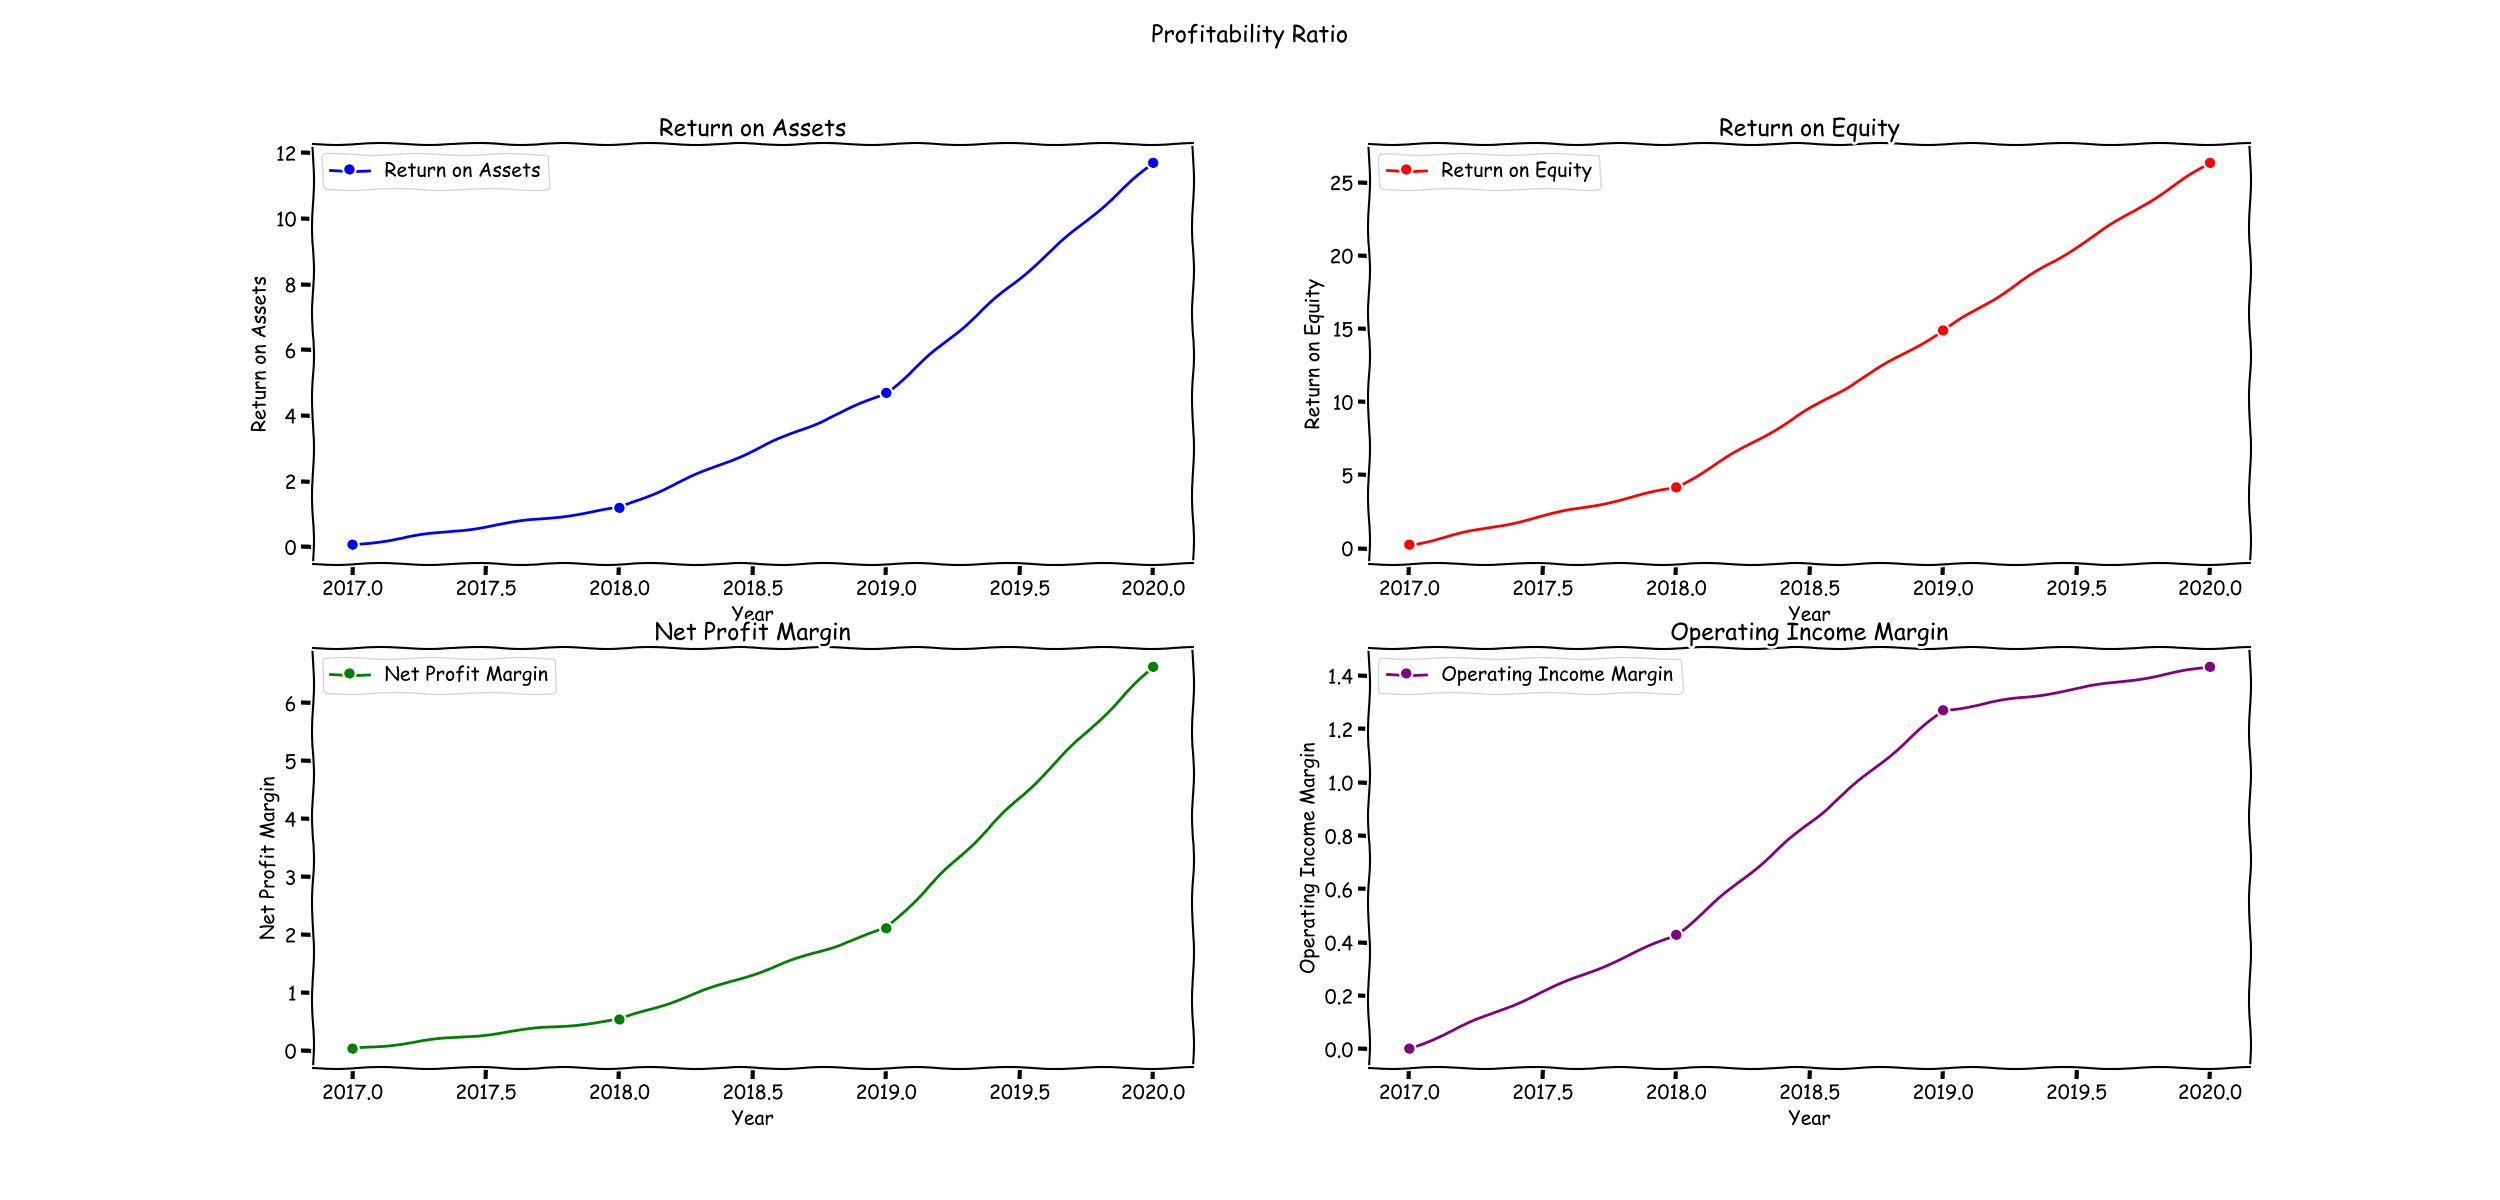
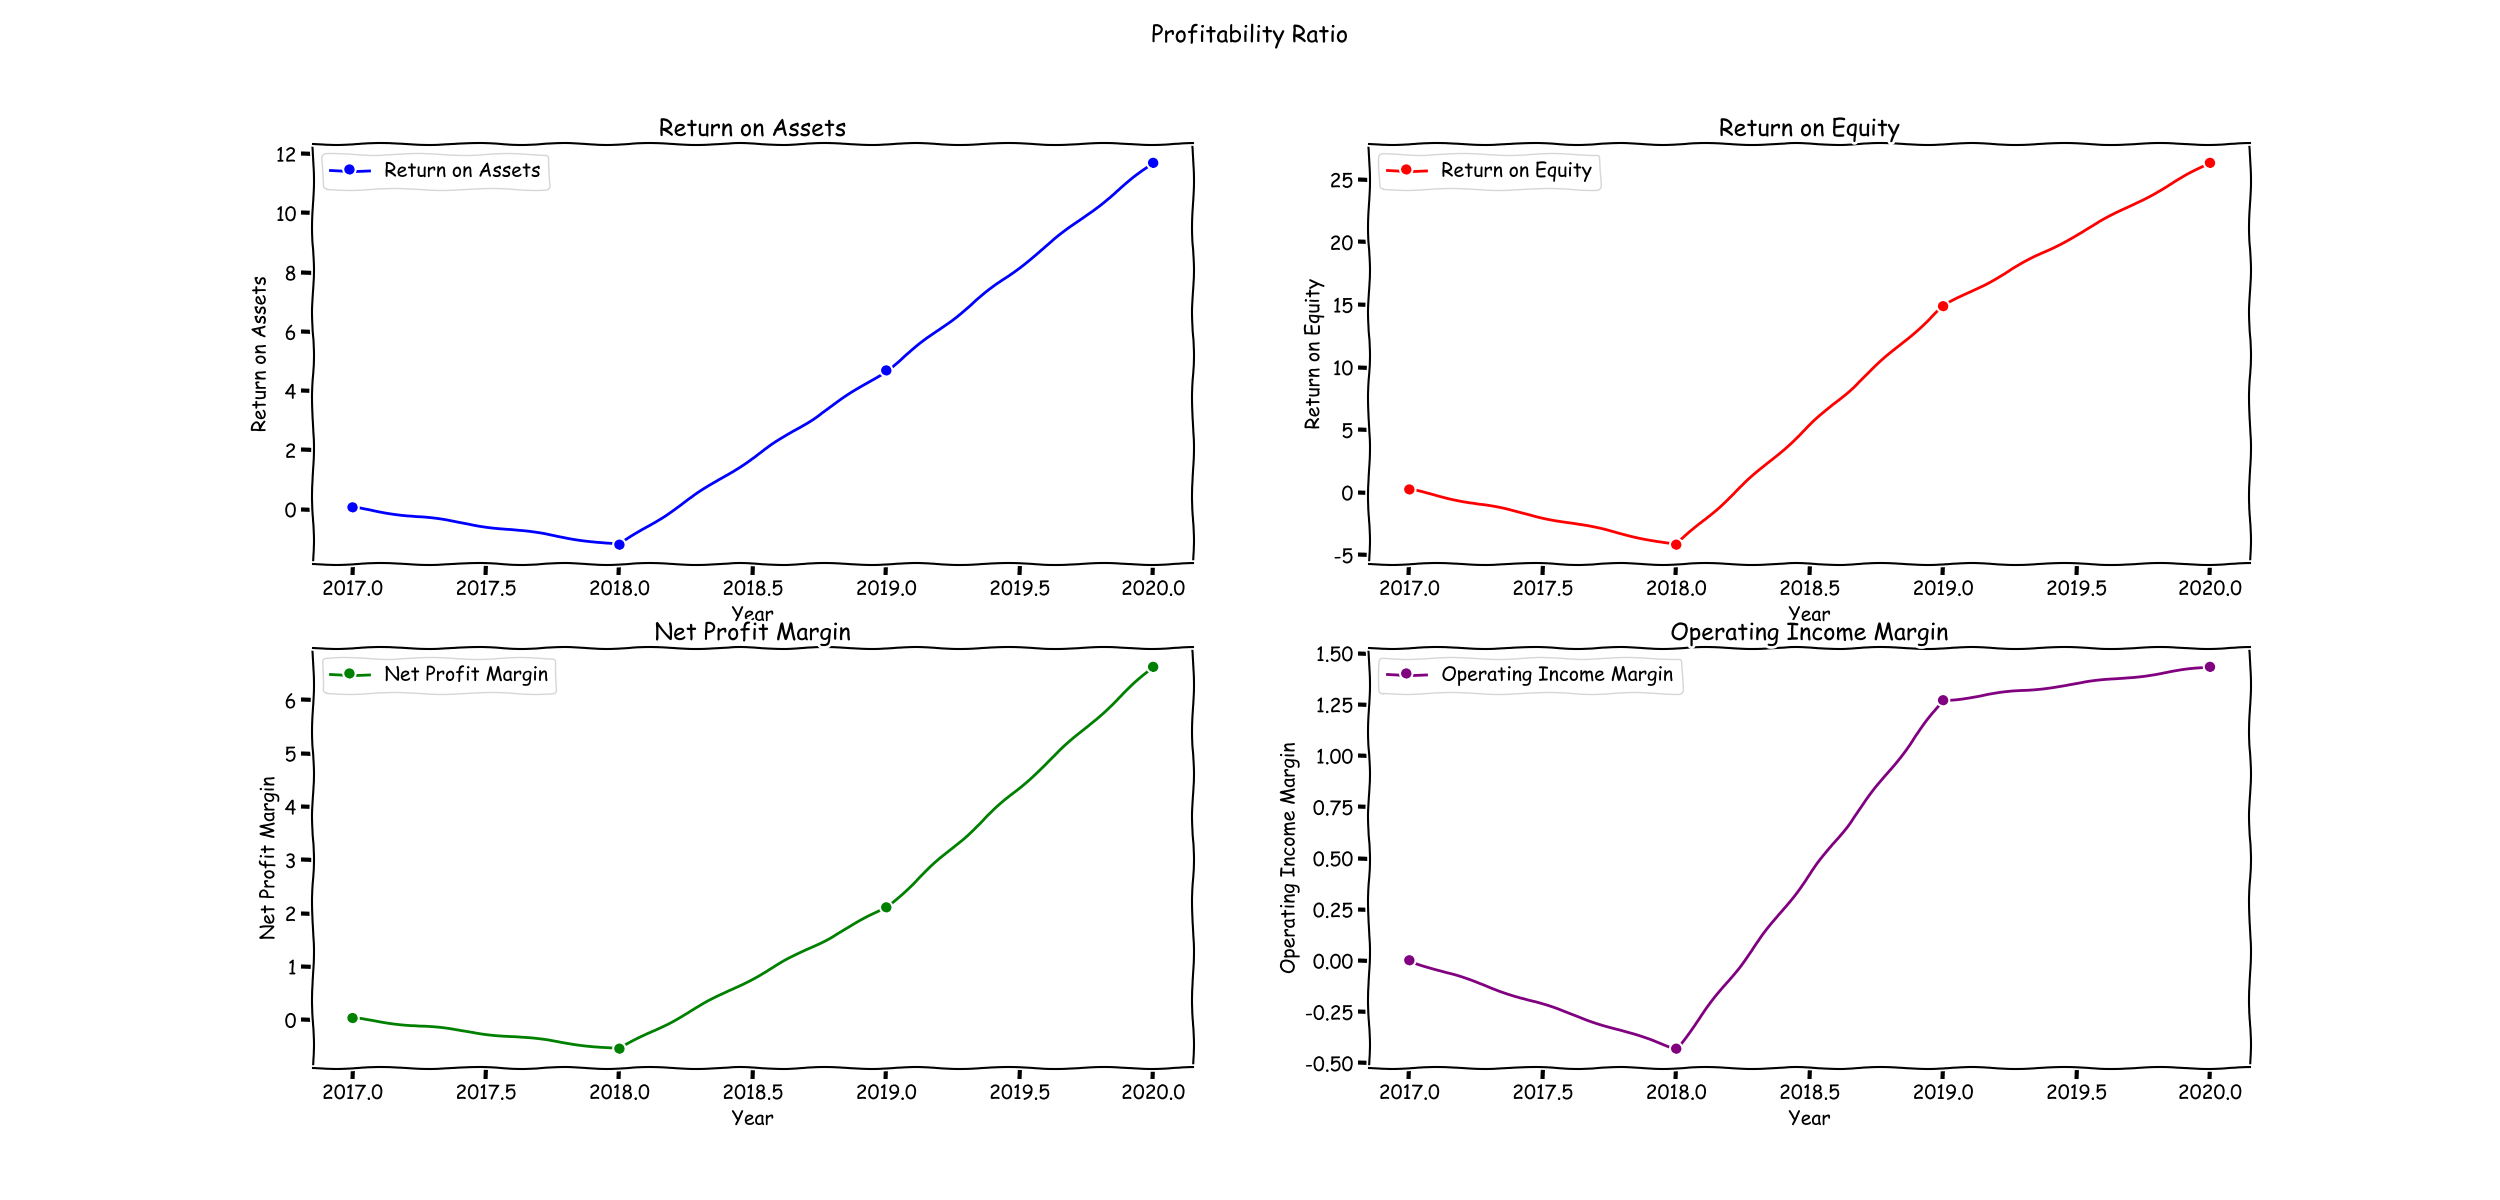
RegEx added
Regular expression for negative values added to Base class

diff --git a/Base.py b/Base.py
@@ -9,6 +9,7 @@ import logging
 import pandas as pd
 import numpy as np
 import yfinance as yf
+import re
 
 logger = logging.getLogger(__name__)
 file_handler = logging.FileHandler('logfile.log')
@@ -98,11 +99,18 @@ class Base:
             num_years = 5
 
         for items in data:
+            # RegEx for negative values
+            # This will help to read the negative values as such and to change - to 0 for converting it to a numpy array
+            numregex = re.compile(r'[-+]?\d*\.\d+|\d+')
+
             items = items.split()
             items[0:(len(items) - num_years)] = [' '.join(items[0:(len(items) - num_years)])]
             for elements in range(-num_years,0):
                 items[elements] = items[elements].replace(',', '')
-                items[elements] = items[elements].replace('-', '0')
+                if numregex.findall(items[elements]):
+                    pass
+                else:
+                    items[elements] = items[elements].replace('-', '0')
             formatted_list.append(items)
 
         dataframe = pd.DataFrame(formatted_list, columns = column_name)
@@ -140,34 +148,21 @@ class Base:
             self.ebitda = np.array(self.incomestmt.loc['EBITDA']).astype('float')[:-1]
             self.tax_expense = np.array(self.incomestmt.loc['Tax Provision']).astype('float')[:-1]
             self.income_before_tax = np.array(self.incomestmt.loc['Pretax Income']).astype('float')[:-1]
-
-            self.inventory = np.array(self.balsheet.loc['Inventory']).astype('float')
+            self.eps = np.array(self.incomestmt.loc['Basic EPS']).astype('float')[:-1]
 
         except KeyError:
             logger.exception(KeyError)
             pass
-
-    #def get_financials(self):
-    #    self.stock_ticker = 'AAPL'
-    #    self.tic = yf.Ticker(self.stock_ticker)
-
-        # Cashflow statement parameters
-    #    self.op_cashflow = np.array(self.tic.cashflow.loc['Total Cash From Operating Activities'])
-    #    self.interest_expense = np.array(self.tic.financials.loc['Interest Expense'])
-    #    self.tax_expense = np.array(self.tic.financials.loc['Income Tax Expense'])
-    #    self.capex = np.array(self.tic.cashflow.loc['Capital Expenditures'])
-    #    self.free_cashflow = self.op_cashflow+self.interest_expense-self.tax_expense-self.capex
-
-        # Balance Sheet statement parameters
-#        self.tot_revenue = np.array(self.tic.financials.loc['Total Revenue']).astype('float')
-#        self.ebit = np.array(self.tic.financials.loc['Ebit']).astype('float')
 
     @classmethod
     def percentage_growth(self,vector):
 
         # Calculate percentage change / growth for two value
         growth = []
+        if vector[-1] == 0:
+            vector = vector[:-1]
+        else:
+            pass
         for i in range(0,len(vector)-1):
-            growth.append(((vector[i+1]-vector[i])/vector[i]) * 100)
-
+            growth.append(((vector[i+1]-vector[i])/abs(vector[i])) * 100)
         return growth

diff --git a/Valuation.py b/Valuation.py
@@ -12,7 +12,7 @@ file_handler = logging.FileHandler('logfile.log')
 file_handler.setLevel(logging.ERROR)
 logger.addHandler(file_handler)
 
-class DCF(ProfitabilityRatio):
+class Valuation(ProfitabilityRatio):
 
     def __init__(self):
 
@@ -73,6 +73,9 @@ class DCF(ProfitabilityRatio):
         self.margin_of_safety = ((self.intrinsic_value - self.cmp)/self.cmp)*100
         logger.info("Margin of Safety is : %f", self.margin_of_safety)
 
+        # Calculate Peterlynch factor
+        self.lynchfactor()
+
     def get_current_price(self):
         self.stock_data = self.tic.history(period='1d')
         return self.stock_data['Close'][0]
@@ -131,3 +134,11 @@ class DCF(ProfitabilityRatio):
 
         return self.wacc
 
+    def lynchfactor(self):
+        self.avg_eps_growth = Base.percentage_growth(self.eps)
+        if np.array(self.avg_eps_growth).mean() < 0:
+            self.avg_eps_growth = self.avg_eps_growth[-1]
+        else:
+            self.avg_eps_growth = np.array(self.avg_eps_growth).mean()
+
+        print(self.avg_eps_growth)

diff --git a/Result.py b/Result.py
@@ -4,7 +4,7 @@ Info   : This class writes the valuation results to a file
 """
 from dataclasses import dataclass
 from fpdf import FPDF
-from DCF import *
+from Valuation import *
 from Base import *
 
 
@@ -17,7 +17,7 @@ mainlogger.info("Stock Valuation started")
 
 @dataclass
 class Result():
-    Obj = DCF()
+    Obj = Valuation()
     pdf = FPDF()
 
     # ## Write Results to file
@@ -80,7 +80,7 @@ class Result():
                 val.write("The Company has a BAD Inventory Turnover Ratio\n")
             val.write("Inventory Turnover Ratio = %f \n\n" % Obj.inv_turnover_ratio[-1])
 
-        except AttributeError:
+        except Exception:
             pass
 
         # Profitability Ratio

diff --git a/main.py b/main.py
@@ -7,7 +7,7 @@ if __name__ == "__main__":
     import time
     print(f"Program Started at {time.perf_counter()} ")
 
-    from DCF import *
+    from Valuation import *
     from Result import *
     from fpdf import FPDF
 
